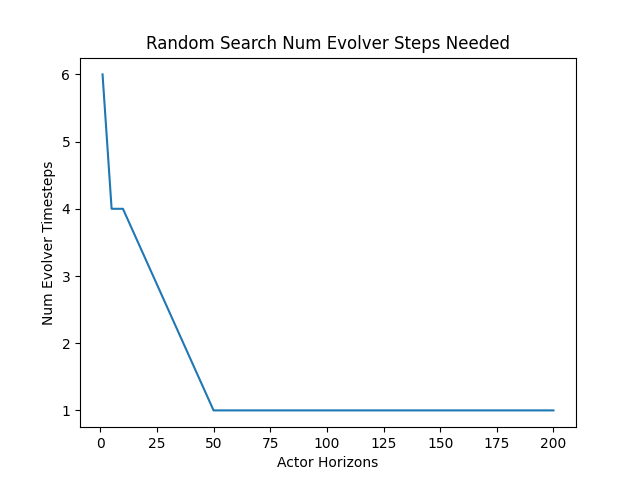
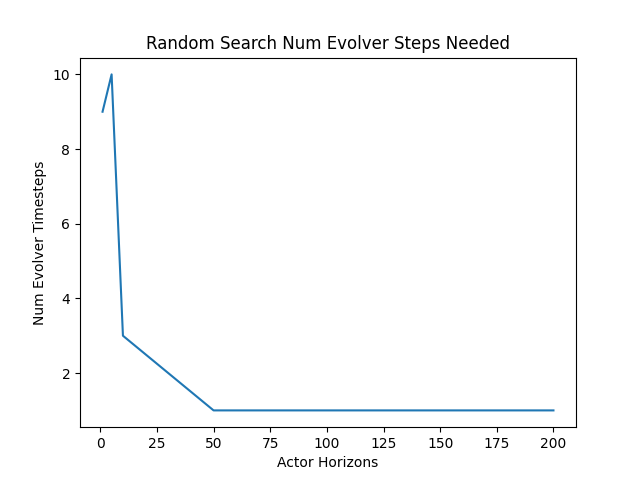
lsakdmf

diff --git a/search_baldwin.py b/search_baldwin.py
@@ -74,7 +74,9 @@ def find_first_evolver_step_match(evolver_dimension, creature_dimension, creatur
 if __name__ == '__main__':
 
 	evolver_dimension = 10
-	evolver_timesteps = 100000
+	evolver_timesteps = 10000
+
+	num_experiments = 10
 
 	creature_dimension = 5
 	average_rewards = []
@@ -82,9 +84,26 @@ if __name__ == '__main__':
 
 	creature_horizons = [1, 5, 10, 50, 100, 200]
 
-	for creature_horizon in creature_horizons:
+	averaging_window = 10
 
-		ultimate_reward_list = run_search(evolver_dimension, evolver_timesteps, creature_dimension, creature_horizon)
+	horizons_results = []
+
+	for creature_horizon in creature_horizons:
+ 
+		all_ultimate_reward_list = []
+
+		for _ in range(num_experiments):
+			ultimate_reward_list = run_search(evolver_dimension, evolver_timesteps, creature_dimension, creature_horizon)
+
+			all_ultimate_reward_list.append(ultimate_reward_list)
+
+		ultimate_reward_list = np.mean(all_ultimate_reward_list, 0)
+
+		
+
+
+
+		horizons_results.append(ultimate_reward_list)
 
 		average_reward = np.mean(ultimate_reward_list)
 
@@ -95,6 +114,9 @@ if __name__ == '__main__':
 		evolver_step_matches.append(evolver_step_match)
 
 
+
+
+	#hyperparam_rewards_mean.reshape(int(num_batches/averaging_window), averaging_window), 1)
 
 
 	plt.plot(creature_horizons, average_rewards, label = "Average Rewards")
@@ -114,10 +136,23 @@ if __name__ == '__main__':
 	plt.savefig("./plots/search_baldwin_num_evolver_steps.png")
 
 	
+	plt.close("all")
 
+	Ts = (np.arange(int(evolver_timesteps/averaging_window)) + 1)*averaging_window
 
+	for i,creature_horizon in zip(range(len(creature_horizons)), creature_horizons):
 
+		compressed_horizons_results = np.mean(np.array(horizons_results[i]).reshape(int(evolver_timesteps/averaging_window), averaging_window), 1)
 
+		plt.plot(Ts, compressed_horizons_results, label = "H-{}".format(creature_horizon))
+
+	plt.title("Actor Ultimate Performance Varying Horizon")
+	plt.xlabel("Evolver Timesteps")
+	plt.ylabel("Ultimate Reward")
+	plt.legend(loc = "upper left")
+	plt.savefig("./plots/horizon_comparison_baldwin.png")
+
+	plt.close("all")
 
 	IPython.embed()
 

diff --git a/baldwin_random_walk.py b/baldwin_random_walk.py
@@ -94,7 +94,7 @@ if __name__ == '__main__':
 	plt.title("Random Search Average Rewards - H{}".format(creature_horizon))
 	plt.xlabel("Evolver Timesteps")
 	plt.ylabel("Average Ultimate Rewards")
-	plt.savefig("./plots/randomwalk_baldwin.png")
+	plt.savefig("./plots/randomwalk_baldwin_H{}.png".format(creature_horizon))
 
 
 	plt.close("all")
